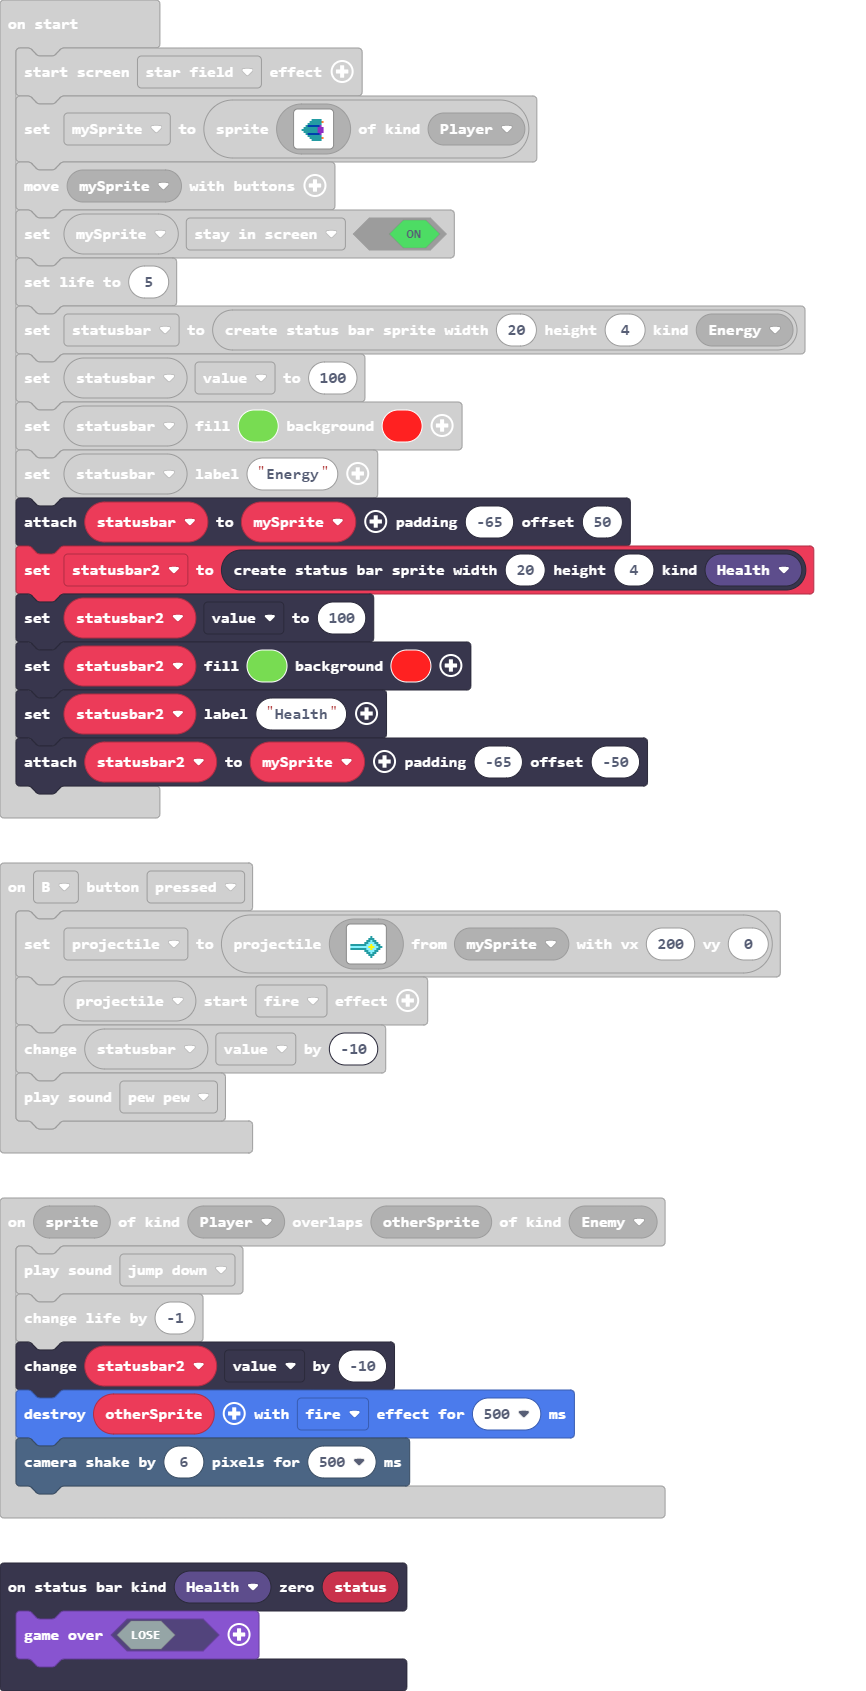
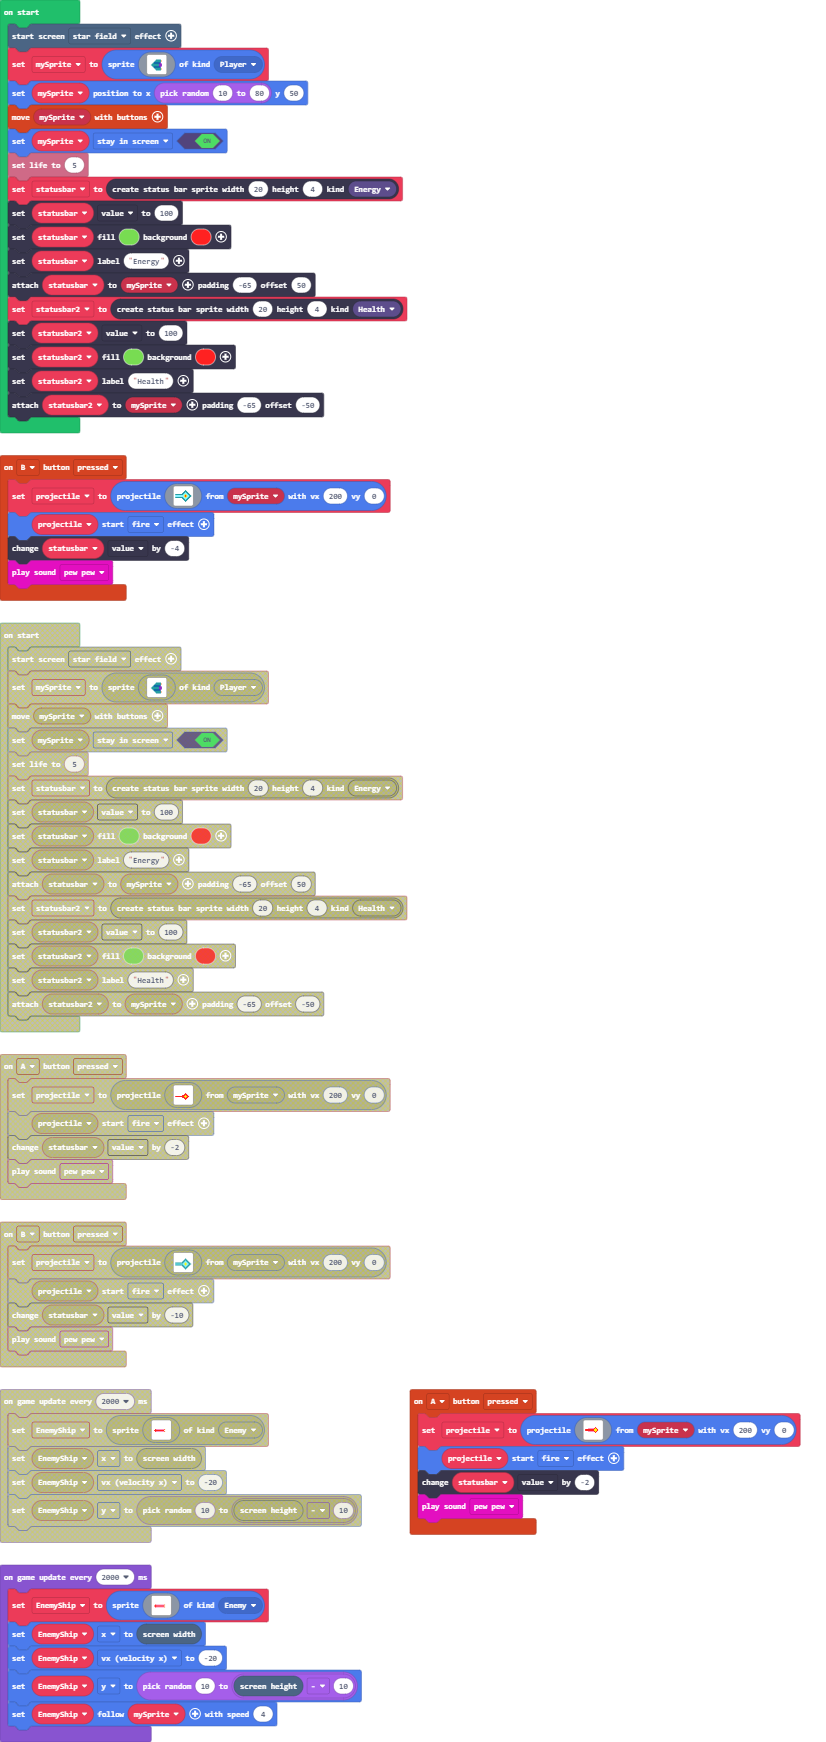
Update main.blocks, main.ts, main.py

diff --git a/main.ts b/main.ts
@@ -2,23 +2,23 @@ controller.B.onEvent(ControllerButtonEvent.Pressed, function () {
     projectile = sprites.createProjectileFromSprite(img`
         . . . . . . . . . . . . . . . . 
         . . . . . . . . . . . . . . . . 
-        . . . . . . . . . . . . . . . . 
-        . . . . . . . . . . . . . . . . 
         . . . . . . . . . . 6 . . . . . 
         . . . . . . . . . 6 6 6 . . . . 
         . . . . . . . . 6 6 9 6 6 . . . 
         . . . . . . . 6 6 9 9 9 6 6 . . 
         6 6 6 6 6 6 6 6 9 9 5 9 9 6 6 . 
-        9 9 9 9 9 9 9 9 9 5 5 5 9 9 6 6 
+        9 9 9 9 9 9 9 9 9 5 2 5 9 9 6 6 
+        9 9 9 9 9 9 9 9 9 5 2 5 9 9 6 6 
         6 6 6 6 6 6 6 6 9 9 5 9 9 6 6 . 
         . . . . . . . 6 6 9 9 9 6 6 . . 
         . . . . . . . . 6 6 9 6 6 . . . 
         . . . . . . . . . 6 6 6 . . . . 
         . . . . . . . . . . 6 . . . . . 
+        . . . . . . . . . . . . . . . . 
         . . . . . . . . . . . . . . . . 
         `, mySprite, 200, 0)
     projectile.startEffect(effects.fire)
-    statusbar.value += -10
+    statusbar.value += -4
     music.pewPew.play()
 })
 controller.A.onEvent(ControllerButtonEvent.Pressed, function () {
@@ -28,14 +28,14 @@ controller.A.onEvent(ControllerButtonEvent.Pressed, function () {
         . . . . . . . . . . . . . . . . 
         . . . . . . . . . . . . . . . . 
         . . . . . . . . . . . . . . . . 
+        . . . . . . . . . . 2 . . . . . 
+        . . . 3 3 3 3 3 3 2 5 2 . . . . 
+        2 2 2 2 2 2 2 2 2 5 5 5 2 . . . 
+        2 2 2 2 2 2 2 2 2 5 5 5 2 . . . 
+        . . . 3 3 3 3 3 3 2 5 2 . . . . 
+        . . . . . . . . . . 2 . . . . . 
         . . . . . . . . . . . . . . . . 
-        . . . . . . . . . . 2 . . . . . 
-        . . . . . . . . . 2 2 2 . . . . 
-        . . . . . . . 2 2 2 5 2 2 . . . 
-        2 2 2 2 2 2 2 2 2 5 5 5 2 2 . . 
-        . . . . . . . 2 2 2 5 2 2 . . . 
-        . . . . . . . . . 2 2 2 . . . . 
-        . . . . . . . . . . 2 . . . . . 
+        . . . . . . . . . . . . . . . . 
         . . . . . . . . . . . . . . . . 
         . . . . . . . . . . . . . . . . 
         . . . . . . . . . . . . . . . . 
@@ -86,6 +86,7 @@ mySprite = sprites.create(img`
     . . . . . . . . . . . . . . . . 
     . . . . . . . . . . . . . . . . 
     `, SpriteKind.Player)
+mySprite.setPosition(randint(10, 80), 50)
 controller.moveSprite(mySprite)
 mySprite.setFlag(SpriteFlag.StayInScreen, true)
 info.setLife(5)
@@ -121,4 +122,5 @@ game.onUpdateInterval(2000, function () {
     EnemyShip.x = scene.screenWidth()
     EnemyShip.vx = -20
     EnemyShip.y = randint(10, scene.screenHeight() - 10)
+    EnemyShip.follow(mySprite, 4)
 })

diff --git a/main.py b/main.py
@@ -1,3 +1,31 @@
+def on_b_pressed():
+    global projectile
+    projectile = sprites.create_projectile_from_sprite(img("""
+        . . . . . . . . . . . . . . . .
+        . . . . . . . . . . . . . . . .
+        . . . . . . . . . . . . . . . .
+        . . . . . . . . . . . . . . . .
+        . . . . . . . . . . 6 . . . . .
+        . . . . . . . . . 6 6 6 . . . .
+        . . . . . . . . 6 6 9 6 6 . . .
+        . . . . . . . 6 6 9 9 9 6 6 . .
+        6 6 6 6 6 6 6 6 9 9 5 9 9 6 6 .
+        9 9 9 9 9 9 9 9 9 5 5 5 9 9 6 6
+        6 6 6 6 6 6 6 6 9 9 5 9 9 6 6 .
+        . . . . . . . 6 6 9 9 9 6 6 . .
+        . . . . . . . . 6 6 9 6 6 . . .
+        . . . . . . . . . 6 6 6 . . . .
+        . . . . . . . . . . 6 . . . . .
+        . . . . . . . . . . . . . . . .
+    """),
+        mySprite,
+        200,
+        0)
+    projectile.start_effect(effects.fire)
+    statusbar.value += -10
+    music.pew_pew.play()
+controller.B.on_event(ControllerButtonEvent.PRESSED, on_b_pressed)
+
 def on_a_pressed():
     global projectile
     projectile = sprites.create_projectile_from_sprite(img("""
@@ -7,13 +35,13 @@ def on_a_pressed():
                     . . . . . . . . . . . . . . . . 
                     . . . . . . . . . . . . . . . . 
                     . . . . . . . . . . . . . . . . 
-                    . . . . . . . . . . 9 . . . . . 
-                    . . . . . . . . . 9 9 9 . . . . 
-                    . . . . . . . . 9 9 5 9 9 . . . 
-                    9 9 9 9 9 9 9 9 9 5 5 5 9 9 . . 
-                    . . . . . . . . 9 9 5 9 9 . . . 
-                    . . . . . . . . . 9 9 9 . . . . 
-                    . . . . . . . . . . 9 . . . . . 
+                    . . . . . . . . . . 2 . . . . . 
+                    . . . . . . . . . 2 2 2 . . . . 
+                    . . . . . . . 2 2 2 5 2 2 . . . 
+                    2 2 2 2 2 2 2 2 2 5 5 5 2 2 . . 
+                    . . . . . . . 2 2 2 5 2 2 . . . 
+                    . . . . . . . . . 2 2 2 . . . . 
+                    . . . . . . . . . . 2 . . . . . 
                     . . . . . . . . . . . . . . . . 
                     . . . . . . . . . . . . . . . . 
                     . . . . . . . . . . . . . . . .
@@ -21,7 +49,18 @@ def on_a_pressed():
         mySprite,
         200,
         0)
+    projectile.start_effect(effects.fire)
+    statusbar.value += -2
+    music.pew_pew.play()
 controller.A.on_event(ControllerButtonEvent.PRESSED, on_a_pressed)
+
+def on_on_zero(status):
+    game.over(False)
+statusbars.on_zero(StatusBarKind.health, on_on_zero)
+
+def on_on_zero2(status):
+    game.over(False)
+statusbars.on_zero(StatusBarKind.energy, on_on_zero2)
 
 def on_on_overlap(sprite, otherSprite):
     sprite.destroy()
@@ -30,30 +69,34 @@ def on_on_overlap(sprite, otherSprite):
 sprites.on_overlap(SpriteKind.projectile, SpriteKind.enemy, on_on_overlap)
 
 def on_on_overlap2(sprite, otherSprite):
+    music.jump_down.play()
     info.change_life_by(-1)
+    statusbar2.value += -10
     otherSprite.destroy(effects.fire, 500)
-    scene.camera_shake(4, 500)
+    scene.camera_shake(6, 500)
 sprites.on_overlap(SpriteKind.player, SpriteKind.enemy, on_on_overlap2)
 
 EnemyShip: Sprite = None
 projectile: Sprite = None
+statusbar2: StatusBarSprite = None
+statusbar: StatusBarSprite = None
 mySprite: Sprite = None
 effects.star_field.start_screen_effect()
 mySprite = sprites.create(img("""
         . . . . . . . . . . . . . . . . 
             . . . . . . . . . . . . . . . . 
             . . . . . . . . . . . . . . . . 
-            . . . . . . . . . . . 6 4 4 . . 
-            . . . . . . . . . 6 6 6 . . . . 
             . . . . . . . 6 6 6 6 6 . . . . 
-            . . . . . 6 8 8 8 8 8 a . . . . 
+            . . . . . . 6 6 6 6 6 6 4 . . . 
+            . . . . . 6 6 6 6 6 6 6 . . . . 
+            . . . . 6 8 8 8 8 8 8 a . . . . 
             . . . 6 6 6 6 6 6 6 a a a . . . 
             . . 6 6 6 6 6 6 6 6 a a a . . . 
-            . 6 6 6 8 8 8 8 8 8 8 a 4 4 . . 
-            . . . . . . . . . . . . . . . . 
-            . . . . . . . . . . . . . . . . 
-            . . . . . . . . . . . . . . . . 
-            . . . . . . . . . . . . . . . . 
+            . . . 6 6 6 6 6 6 6 a a a . . . 
+            . . . . 6 8 8 8 8 8 8 a . . . . 
+            . . . . . 6 6 6 6 6 6 6 . . . . 
+            . . . . . . 6 6 6 6 6 6 4 . . . 
+            . . . . . . . 6 6 6 6 6 . . . . 
             . . . . . . . . . . . . . . . . 
             . . . . . . . . . . . . . . . .
     """),
@@ -61,24 +104,34 @@ mySprite = sprites.create(img("""
 controller.move_sprite(mySprite)
 mySprite.set_flag(SpriteFlag.STAY_IN_SCREEN, True)
 info.set_life(5)
+statusbar = statusbars.create(20, 4, StatusBarKind.energy)
+statusbar.value = 100
+statusbar.set_color(7, 2)
+statusbar.set_label("Energy")
+statusbar.attach_to_sprite(mySprite, -65, 50)
+statusbar2 = statusbars.create(20, 4, StatusBarKind.health)
+statusbar2.value = 100
+statusbar2.set_color(7, 2)
+statusbar2.set_label("Health")
+statusbar2.attach_to_sprite(mySprite, -65, -50)
 
 def on_update_interval():
     global EnemyShip
     EnemyShip = sprites.create(img("""
             . . . . . . . . . . . . . . . . 
                     . . . . . . . . . . . . . . . . 
-                    . . . . . . . . . 3 2 . . . . . 
-                    . . . . . . . 3 3 3 2 . . . . . 
-                    . . . . . . 3 3 2 2 2 4 . . . . 
-                    . . . . 3 3 3 2 2 2 2 4 . . . . 
-                    . . . 3 3 2 2 2 2 2 2 . . . . . 
-                    . . . 3 2 2 2 2 2 2 2 . . . . . 
-                    . . 2 2 2 2 2 2 2 2 2 . . . . . 
-                    . . . 2 2 2 2 2 2 2 2 . . . . . 
-                    . . . 3 3 2 2 2 2 2 2 4 . . . . 
-                    . . . . . 3 3 3 2 2 2 4 . . . . 
-                    . . . . . . . 3 3 3 2 . . . . . 
-                    . . . . . . . . . . 2 . . . . . 
+                    . . . . . . . . . . . . . . . . 
+                    . . . . . . . . . . . . . . . . 
+                    . . . . . . . . . . . . . . . . 
+                    . . . . . . . . . . . . . . . . 
+                    . . . . . . . . . . . . . . . . 
+                    . . 2 3 3 3 3 3 3 3 3 4 . . . . 
+                    . 2 2 2 2 2 2 2 2 2 2 . . . . . 
+                    . . 2 3 3 3 3 3 3 3 3 4 . . . . 
+                    . . . . . . . . . . . . . . . . 
+                    . . . . . . . . . . . . . . . . 
+                    . . . . . . . . . . . . . . . . 
+                    . . . . . . . . . . . . . . . . 
                     . . . . . . . . . . . . . . . . 
                     . . . . . . . . . . . . . . . .
         """),
